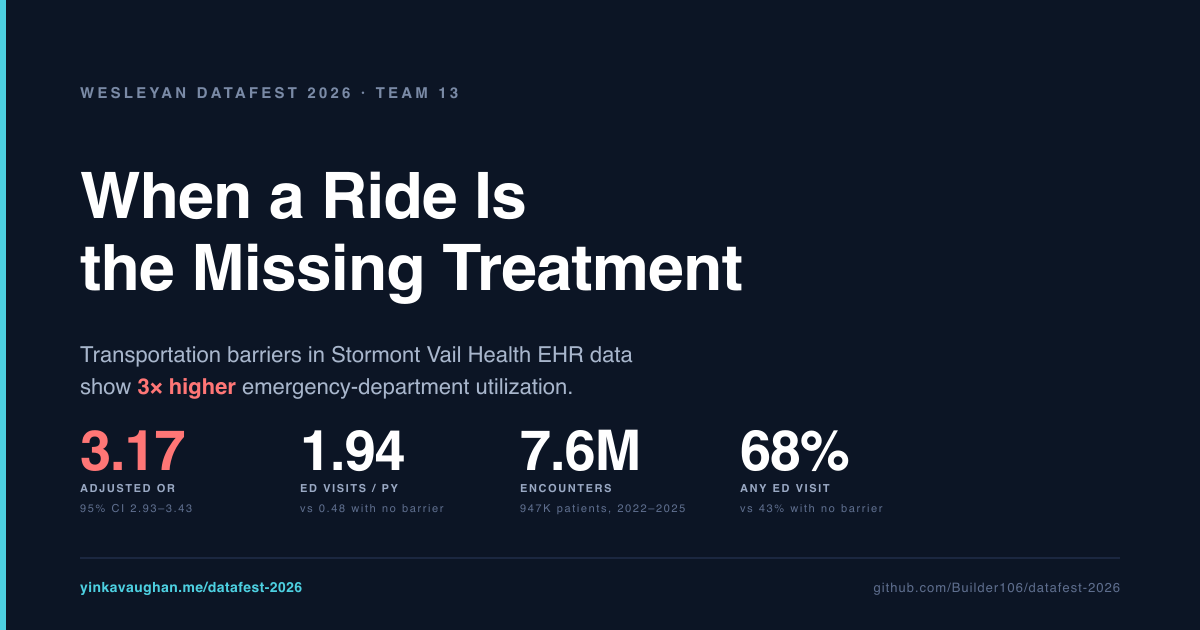
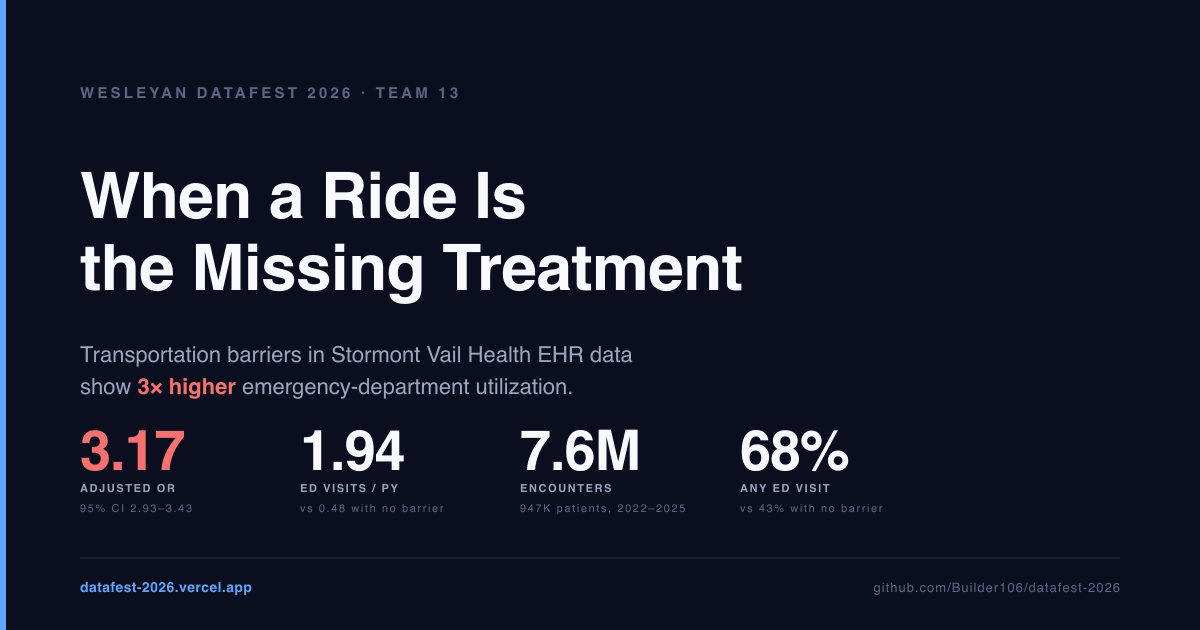
Swap palette to transit cobalt + alert red + signage yellow.
Old palette was clinical cyan-teal + pinkish coral-red — generic
medical-dashboard aesthetic. New palette borrows from real-world
transit / hospital / construction signage:

- Light bg pure white, dark bg deep cobalt-black (more saturation
  than the previous navy).
- Accent: cobalt #1d4ed8 (light) / #60a5fa (dark) — reads like
  transit/highway signage.
- Warn: signage red #dc2626 / #f87171 — true STOP-sign red,
  not the old pinkish coral.
- New --caution token: deeper goldenrod in light, signage yellow
  in dark — used on the Honest Limits kicker with a yield-triangle
  icon as a quiet third-signal third color.

Every CSS rule was already var()-based, so the journey illustration,
stat medallions, lane chart, ECG dividers, full-bleed implication
band, and check-card watermarks all pick up the new colors with no
markup changes (the watermarks use mask-image with a
background-color: var(--accent), so light/dark mode tracks correctly).

The banner SVGs (light + dark) and the social-card SVG/PNG are
remapped to match. social-card.svg also fixes a stale
yinkavaughan.me/datafest-2026 URL line to point at the new Vercel
host. All four PNGs re-rasterized via rsvg-convert at native
resolution.

diff --git a/docs/style.css b/docs/style.css
@@ -1,37 +1,39 @@
 :root {
   color-scheme: light dark;
-  --bg: #fbfcfd;
-  --surface: #f3f5f9;
-  --surface-2: #eef1f7;
-  --text: #0c1525;
-  --muted: #4a5872;
-  --dim: #8a99b4;
-  --border: #dce2ed;
-  --accent: #0c8aa3;
-  --warn: #d94c4c;
-  --cool-bar: #c4ccdb;
-  --code-bg: #eef1f7;
-  --asphalt: #2a2f3d;
-  --lane-marker: #f3f5f9;
-  --sage: #2e8a6b;
+  --bg: #ffffff;
+  --surface: #f4f6fa;
+  --surface-2: #e8ecf3;
+  --text: #0b1024;
+  --muted: #4a5168;
+  --dim: #888fa6;
+  --border: #d4d9e5;
+  --accent: #1d4ed8;
+  --warn: #dc2626;
+  --caution: #ca8a04;
+  --cool-bar: #c5cad8;
+  --code-bg: #e8ecf3;
+  --asphalt: #0f1428;
+  --lane-marker: #f4f6fa;
+  --sage: #ca8a04; /* deprecated alias for --caution */
 }
 
 @media (prefers-color-scheme: dark) {
   :root {
-    --bg: #0c1525;
-    --surface: #142037;
-    --surface-2: #1a2742;
-    --text: #ffffff;
-    --muted: #a8b6cc;
-    --dim: #5e6e8e;
-    --border: #2a3a5c;
-    --accent: #4dd0e1;
-    --warn: #ff7676;
-    --cool-bar: #3a4a6c;
-    --code-bg: #142037;
-    --asphalt: #0a0f1a;
-    --lane-marker: #4a5872;
-    --sage: #4ec0a0;
+    --bg: #0a0e1f;
+    --surface: #111630;
+    --surface-2: #1a2040;
+    --text: #f8f9fc;
+    --muted: #9da4be;
+    --dim: #5d6585;
+    --border: #262d47;
+    --accent: #60a5fa;
+    --warn: #f87171;
+    --caution: #facc15;
+    --cool-bar: #2a3050;
+    --code-bg: #111630;
+    --asphalt: #050815;
+    --lane-marker: #4a5168;
+    --sage: #facc15;
   }
 }
 
@@ -240,6 +242,16 @@ h3 { font-size: 18px; margin: 0 0 10px; font-weight: 700; letter-spacing: -0.005
   font-weight: 700;
   color: var(--dim);
   margin: 0 0 16px;
+}
+.caution-kicker {
+  color: var(--caution);
+  display: inline-flex;
+  align-items: center;
+  gap: 8px;
+}
+.caution-kicker .icon {
+  font-size: 14px;
+  stroke-width: 2;
 }
 
 a {

diff --git a/docs/index.html b/docs/index.html
@@ -74,6 +74,10 @@
       <symbol id="i-quote" viewBox="0 0 24 24">
         <path d="M7 11c0-3 2-5 4-5M7 11v3a3 3 0 0 0 3 3v0a3 3 0 0 0 0-6H7zM15 11c0-3 2-5 4-5M15 11v3a3 3 0 0 0 3 3v0a3 3 0 0 0 0-6h-3z"/>
       </symbol>
+      <symbol id="i-yield" viewBox="0 0 24 24">
+        <path d="M12 3l10 17H2z"/>
+        <path d="M12 10v5M12 17.5v.5"/>
+      </symbol>
     </defs>
   </svg>
 
@@ -236,7 +240,7 @@
     </section>
 
     <section class="caveat">
-      <p class="kicker">Honest limits</p>
+      <p class="kicker caution-kicker"><svg class="icon" aria-hidden="true"><use href="#i-yield"/></svg>Honest limits</p>
       <p>The data is observational and the screening sample is non-random. Only <strong>~6%</strong> of patients in the release have any SDOH answer, so absolute prevalences shouldn't be projected to the full system. <strong>20%</strong> of encounter rows carry a diagnosis key not in the lookup; <strong>65%</strong> of patients have no parseable FIPS code, so no geographic model was fit. Patient journeys are left- and right-censored at the 2022&ndash;2025 window. The <a href="https://github.com/Builder106/datafest-2026/blob/main/Team13_Writeup.pdf">writeup</a> spells out the full caveat list.</p>
     </section>
 